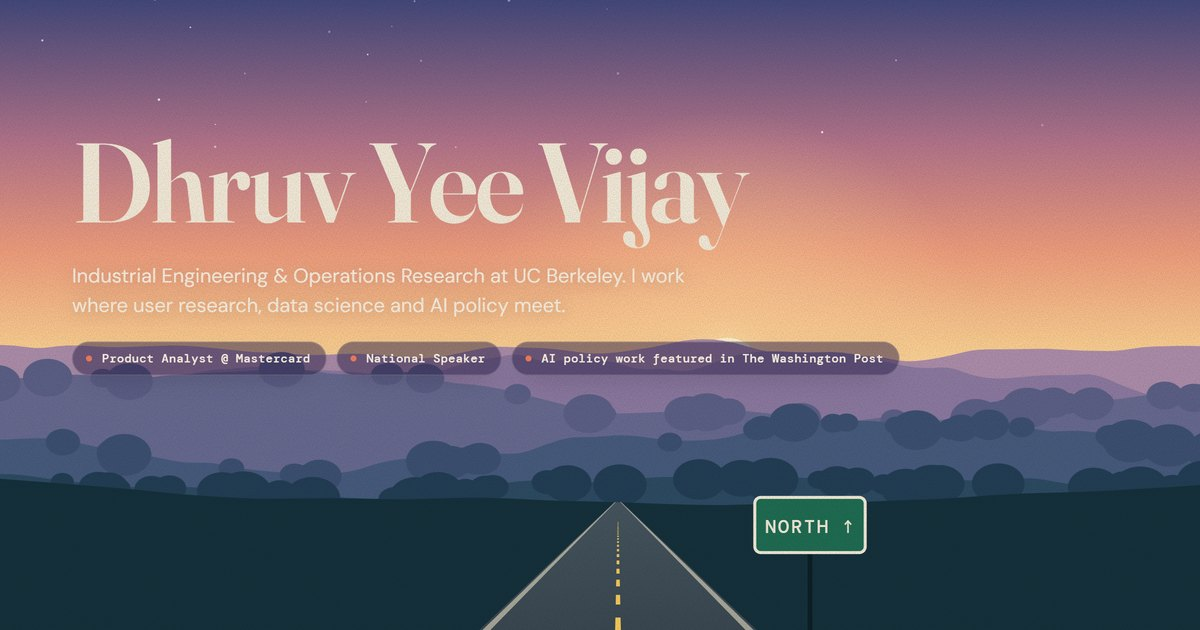
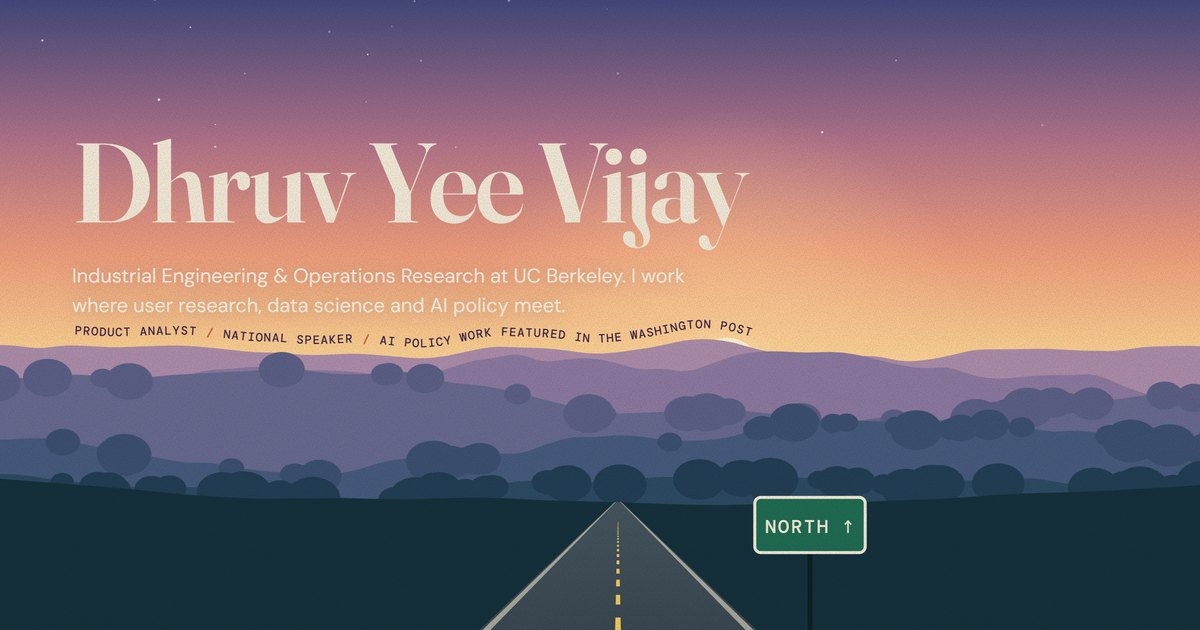
Set the hero credentials along the mountain skyline and drop the pills

Changed region(s): [[0.0617, 0.5127, 0.7708, 0.6032]]

diff --git a/js/scenes-1.js b/js/scenes-1.js
@@ -17,6 +17,13 @@
     const r1 = R(770, 44, 520, 21), r2 = R(812, 52, 430, 22), r3 = R(862, 58, 600, 23), r4 = R(915, 54, 520, 24), r5 = R(968, 40, 640, 25);
     const crest = A.ridgePts({ x0: -500, x1: 2500, y: (x) => 1012 - Math.pow(Math.abs(x - 1000) / 1000, 2) * 34, amp: 6, wave: 400, seed: 9, step: 50 });
     const S = (pts) => A.shape(pts, 2100, true);
+    // the open top edge of a smoothed ridge (same curve A.shape draws), lifted by `lift` units: the credentials ride on it
+    const skyline = (pts, lift) => {
+      let d = `M ${f(pts[0][0])} ${f(pts[0][1] - lift)}`;
+      for (let i = 1; i < pts.length - 1; i++) d += ` Q ${f(pts[i][0])} ${f(pts[i][1] - lift)} ${f((pts[i][0] + pts[i + 1][0]) / 2)} ${f((pts[i][1] + pts[i + 1][1]) / 2 - lift)}`;
+      const l = pts[pts.length - 1];
+      return d + ` L ${f(l[0])} ${f(l[1] - lift)}`;
+    };
     const blobs = (pts, seed, n, color) => {
       const r = A.rng(seed), yf = A.at(pts); let s = '';
       for (let i = 0; i < n; i++) { const x = -400 + r() * 2800, rr = 12 + r() * 24; s += `<ellipse cx="${f(x)}" cy="${f(yf(x) + rr * 0.15)}" rx="${f(rr * 1.3)}" ry="${f(rr)}"/>`; }
@@ -43,6 +50,11 @@
         { depth: 0, key: 'day', svg: fill('hero-day') },
         { depth: 0.03, key: 'sun', svg: `<circle cx="1210" cy="800" r="440" fill="url(#hero-glow)"/><circle cx="1210" cy="800" r="62" fill="#fff4cf"/>` },
         { depth: 0.14, svg: `<path d="${S(r1)}" fill="#ab8ca9"/><path d="${S(r2)}" fill="#8b789f"/>` },
+        {
+          // the credentials, set along the far skyline; same depth as the ridge so they move with it
+          depth: 0.14, key: 'creds', svg: `<path id="hero-skyline" fill="none"/>
+            <text font-family="DM Mono, monospace" font-weight="500" letter-spacing="0.08em" fill="#3a2347"><textPath href="#hero-skyline">PRODUCT ANALYST<tspan dx="0.75em" fill="#c4512f">/</tspan><tspan dx="0.75em">NATIONAL SPEAKER</tspan><tspan dx="0.75em" fill="#c4512f">/</tspan><tspan dx="0.75em">AI POLICY WORK FEATURED IN THE WASHINGTON POST</tspan></textPath></text>`
+        },
         { depth: 0.34, svg: `<path d="${S(r3)}" fill="#66698e"/>${blobs(r3, 61, 40, '#5b5f85')}<path d="${S(r4)}" fill="#465a7c"/>${blobs(r4, 62, 55, '#3c4f70')}` },
         { depth: 0.6, svg: `<path d="${S(r5)}" fill="#2c4a62"/>${blobs(r5, 63, 70, '#223d54')}` },
         {
@@ -56,8 +68,32 @@
         }
       ],
       init(S) { S.copy = S.el.querySelector('.hero-copy'); S.cue = S.el.querySelector('.cue'); },
+      layout(S) {
+        // size the skyline text in real pixels and start it under the left edge of the intro.
+        // Where the whole line can't fit between there and the route dots (phones, narrow windows),
+        // the plain list in the page is shown instead.
+        const L = S.L.creds, vw = S.stage.clientWidth;
+        const u = L.unit, path = L.svg.querySelector('#hero-skyline'), tp = L.svg.querySelector('textPath'), text = L.svg.querySelector('text');
+        let fits = vw > 640;
+        if (fits) {
+          text.setAttribute('font-size', f(Math.min(13, Math.max(12, vw * 0.0092)) / u));
+          path.setAttribute('d', skyline(r1, 11 / u));
+          try {
+            const x = L.vb.x + S.copy.offsetLeft / u;
+            let lo = 0, hi = path.getTotalLength();
+            for (let i = 0; i < 24; i++) { const m = (lo + hi) / 2; if (path.getPointAtLength(m).x < x) lo = m; else hi = m; }
+            tp.setAttribute('startOffset', f(lo));
+            const bb = text.getBBox();                  // the rendered line, slashes and spacing included
+            fits = bb.width > 0 && (bb.x + bb.width - L.vb.x) * u <= vw - 76;
+          } catch (err) { fits = false; }
+        }
+        S.credsOff = !fits;
+        S.el.classList.toggle('creds-curved', fits);
+      },
       update(c) {
         const d = c.d, e = 1 - Math.pow(1 - d, 2);
+        c.L.creds.hidden = !!c.S.credsOff;
+        c.L.creds.o = Math.max(0, 1 - d * 1.7);   // fades with the name and intro
         c.L.sun.y -= e * 215 * c.unit;
         c.L.day.o = Math.min(1, d * 1.3) * 0.8;
         c.layers.forEach((l) => { if (l.depth > 0.05) l.y += d * l.depth * c.vh * 0.08; });

diff --git a/css/style.css b/css/style.css
@@ -85,13 +85,12 @@ svg.defs{position:absolute; width:0; height:0}
 .hero-copy .kicker{font:500 clamp(11px,1vw,13px)/1.3 var(--mono); letter-spacing:.2em; text-transform:uppercase; color:#f8c9a2; margin:0}
 .hero-copy h1{font:600 clamp(50px,9.4vw,138px)/.93 var(--serif); letter-spacing:-.022em; margin:.2em 0 .24em}
 .hero-copy .lede{font:400 clamp(17px,1.65vw,22px)/1.48 var(--sans); max-width:33em; margin:0; color:#f6ecdc; text-shadow:0 1px 16px rgba(74,40,70,.3)}
-/* highlights: self-contained pills, so they wrap cleanly and stay legible on any part of the sky */
-.hero-copy .creds{display:flex; flex-wrap:wrap; gap:10px; width:max-content; max-width:calc(100vw - 2 * var(--gut) - 64px); margin:clamp(20px,3.4vh,34px) 0 0; padding:0; list-style:none}
-.hero-copy .creds li{display:inline-flex; align-items:center; gap:10px; padding:9px 16px 9px 14px; border-radius:17px;
-  font:500 clamp(12px,.95vw,13.5px)/1.35 var(--mono); letter-spacing:.02em; color:#fbf3e4;
-  background:rgba(44,32,74,.5); box-shadow:inset 0 0 0 1px rgba(251,246,234,.18), 0 10px 26px -14px rgba(30,16,40,.6)}
-.hero-copy .creds li::before{content:""; flex:none; width:6px; height:6px; border-radius:50%; background:var(--coral)}
-@media (max-width:720px){ .hero-copy{right:56px} .hero-copy .creds{gap:8px; width:auto} .hero-copy .creds li{padding:8px 13px 8px 12px} }
+/* highlights: where the line fits, the hero scene (scenes-1.js) sets it along the mountain skyline and adds .creds-curved;
+   this list stays for screen readers and is what phones and narrow windows show, stacked */
+.hero-copy .creds{display:flex; flex-direction:column; gap:.5em; margin:clamp(18px,3vh,28px) 0 0; padding:0; list-style:none;
+  font:500 12px/1.45 var(--mono); letter-spacing:.08em; text-transform:uppercase; color:#3a2347; text-shadow:0 0 14px rgba(255,236,214,.45)}
+.creds-curved .hero-copy .creds{position:absolute; width:1px; height:1px; margin:0; overflow:hidden; clip-path:inset(50%); white-space:nowrap}
+@media (max-width:720px){ .hero-copy{right:56px} }
 .cue{position:absolute; z-index:3; left:50%; bottom:clamp(18px,3.4vh,34px); margin:0; transform:translateX(-50%); white-space:nowrap; font:500 11px/1 var(--mono); letter-spacing:.16em; text-transform:uppercase;
   color:var(--paper); background:rgba(20,35,31,.5); padding:9px 13px; border-radius:99px; animation:nudge 2.4s ease-in-out infinite}
 @keyframes nudge{ 50%{ transform:translate(-50%,6px) } }

diff --git a/index.html b/index.html
@@ -45,7 +45,7 @@
       <h1>Dhruv Yee Vijay</h1>
       <p class="lede">Industrial Engineering &amp; Operations Research at UC Berkeley. I make things people want to look at, and I study why they work.</p>
       <ul class="creds" aria-label="Highlights">
-        <li>Product Analyst @ Mastercard</li>
+        <li>Product Analyst</li>
         <li>National Speaker</li>
         <li>AI policy work featured in The Washington Post</li>
       </ul>
